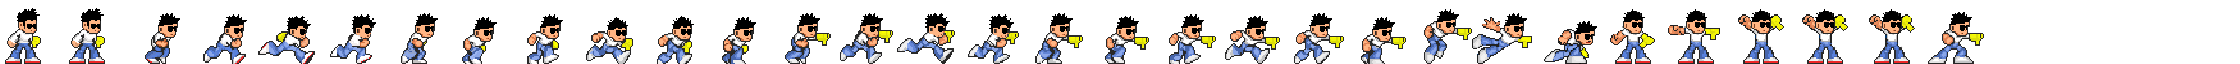
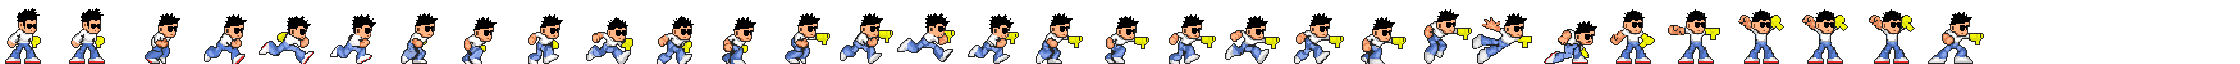
minor fixups
cutscenes can specify effects

higgs and boson both have talking animations that play during cutscenes

cleaned up the player sprite

Changed region(s): [[0.6875, 0.7812, 0.7188, 1.0], [0.5312, 0.625, 0.5625, 0.6562]]

diff --git a/lib/game/entities/cutscene.js b/lib/game/entities/cutscene.js
@@ -2,7 +2,8 @@ ig.module(
   'game.entities.cutscene'
 )
 .requires(
-  'impact.entity'
+  'impact.entity',
+  'game.entities.instant-earthquake'
 )
 .defines(function() {
   EntityCutscene = ig.Entity.extend({
@@ -13,7 +14,7 @@ ig.module(
     active: false,
     complete: false,
     checkAgainst: ig.Entity.TYPE.A,
-
+    previousEntity: null,
     currentTextIndex: 0,
 
     textTimer: null,
@@ -95,6 +96,11 @@ ig.module(
       ig.game.camera.set(ig.game.player);
 
       this.restoreInput();
+
+      // stop the previous entitys animation
+      if( this.previousEntity ) {
+        this.previousEntity.currentAnim = this.previousEntity.anims.idle;
+      }
     },
 
     draw: function() {
@@ -106,6 +112,11 @@ ig.module(
             , x
             , y;
 
+          // stop the previous entitys animation
+          if( this.previousEntity ) {
+            this.previousEntity.currentAnim = this.previousEntity.anims.idle;
+          }
+
           if (line.entity === 'center') {
             x = ig.system.width / 2 - ( ig.game.font.widthForString( line.text ) / 2 );
             y = ig.system.height / 2;
@@ -114,11 +125,24 @@ ig.module(
           } else {
             entity = this.findEntity(line.entity);
 
+            var animationName = line.anim || "talking";
+
             // translate points to camera XY
             x = entity.pos.x - ig.game.camera.pos.x - ig.game.camera.offset.x + ig.game.camera.trap.pos.x;
             y = entity.pos.y - ig.game.camera.pos.y;
 
+            // animate the talking character
+            if( entity.anims[animationName] ) {
+              entity.currentAnim = entity.anims[animationName];
+            }
+
+            // if an effect type is specified, spawn it
+            if( line.effect ) {
+              ig.game.spawnEntity( line.effect, this.pos.x, this.pos.y);
+            }
+
             ig.game.font.draw( line.text, x, y, ig.Font.ALIGN.CENTER );
+            this.previousEntity = entity;
           }
         }
       }

diff --git a/lib/game/entities/player.js b/lib/game/entities/player.js
@@ -60,9 +60,9 @@ ig.module(
       var y = this.startPosition.y;
 
       ig.game.playerController.lives--;
-      
+
       this.parent();
-      
+
       ig.game.spawnEntity( EntityEffectDeathExplosion, this.pos.x, this.pos.y, {
         callback: function() {
           var player = ig.game.spawnEntity( EntityPlayer, x, y );
@@ -77,6 +77,12 @@ ig.module(
 
     update: function() {
       var accel = this.standing ? this.accelGround : this.accelAir;
+      if( ig.input.state('crouch') ) {
+        this.currentAnim = this.anims.crouch;
+        this.currentAnim.flip.x = this.flip;
+        this.parent();
+        return;
+      }
       if( ig.input.state('left') ) {
         this.accel.x = -accel;
         this.flip = true;
@@ -131,6 +137,7 @@ ig.module(
       this.addAnim( 'run', 0.1, [12,13,14,15,16,17,18,19,20] );
       this.addAnim( 'jump', 0.09, [21,22], true );
       this.addAnim( 'fall', 0.4, [22], true );
+      this.addAnim( 'crouch', 0.4, [24], true );
     }
   });
 });

diff --git a/lib/game/entities/instant-earthquake.js b/lib/game/entities/instant-earthquake.js
@@ -1,0 +1,47 @@
+/*
+This entity shakes the screen when its triggeredBy() method is called - usually
+through an EntityTrigger entity.
+
+
+Keys for Weltmeister:
+
+strength
+  max amount of screen movement in pixels
+  default: 8
+
+duration
+  duration of the screen shaking in seconds
+  default: 1
+*/
+
+ig.module(
+  'game.entities.instant-earthquake'
+)
+.requires(
+  'impact.entity',
+  'game.entities.earthquake'
+)
+.defines(function(){
+
+EntityInstantEarthquake = ig.Entity.extend({
+  _wmDrawBox: true,
+  _wmBoxColor: 'rgba(80, 130, 170, 0.7)',
+
+  size: {x: 8, y: 8},
+
+  duration: 1,
+  strength: 8,
+  quakeTimer: null,
+
+  init: function( x, y, settings ) {
+    this.quakeTimer = new ig.Timer();
+    this.parent( x, y, settings );
+
+    // spawn a new earthquake entity
+    var quake = ig.game.spawnEntity( EntityEarthquake, x, y, { duration: 1, strength: 3 });
+
+    quake.triggeredBy( this, this );
+  }
+});
+
+});

diff --git a/lib/game/entities/npc-scientist-higgs.js b/lib/game/entities/npc-scientist-higgs.js
@@ -9,13 +9,14 @@ ig.module(
     type: ig.Entity.TYPE.A,
     checkAgainst: ig.Entity.TYPE.NONE,
     flip: false,
-    size: {x: 41, y: 64},
-    offset: { x: 0, y: 1 },
+    size: {x: 50, y: 64},
+    offset: { x: 0, y: 0 },
 
-    animSheet: new ig.AnimationSheet( 'media/scientist1.png', 41, 64 ),
+    animSheet: new ig.AnimationSheet( 'media/scientist1.png', 50, 64 ),
 
     init: function( x, y, settings ) {
       this.addAnim( 'idle', 0.1, [0] );
+      this.addAnim( 'talking', 0.1, [1,2,3,2]);
 
       this.parent( x, y, settings );
 

diff --git a/lib/game/entities/npc-scientist-boson.js b/lib/game/entities/npc-scientist-boson.js
@@ -9,13 +9,14 @@ ig.module(
     type: ig.Entity.TYPE.A,
     checkAgainst: ig.Entity.TYPE.NONE,
     flip: false,
-    size: {x: 47, y: 64},
+    size: {x: 50, y: 64},
     offset: { x: 0, y: -1 },
 
-    animSheet: new ig.AnimationSheet( 'media/scientist2.png', 47, 64 ),
+    animSheet: new ig.AnimationSheet( 'media/scientist2.png', 50, 64 ),
 
     init: function( x, y, settings ) {
       this.addAnim( 'idle', 0.1, [0] );
+      this.addAnim( 'talking', 0.1, [1,2,3,2]);
 
       this.parent( x, y, settings );
 

diff --git a/lib/game/entities/cutscene-intro.js b/lib/game/entities/cutscene-intro.js
@@ -44,8 +44,16 @@ ig.module(
         }
       , {
           entity: 'Boson',
-          text: '...'
+          text: '...',
+          effect: 'EntityInstantEarthquake'
         }
+      , {
+          entity: 'Higgs',
+          text: 'What the hell was that!?!'
+      }, {
+          entity: 'Boson',
+          text: 'We\'re under attack! Rock! Get out there!'
+      }
     ]
   });
 });

diff --git a/lib/game/main.js b/lib/game/main.js
@@ -74,6 +74,7 @@ MyGame = ig.Game.extend({
     ig.input.bind( ig.KEY.X, 'jump' );
     ig.input.bind( ig.KEY.C, 'shoot' );
     ig.input.bind( ig.KEY.TAB, 'switch' );
+    ig.input.bind( ig.KEY.Z, 'crouch' );
   },
 
   loadLevel: function( level ) {
